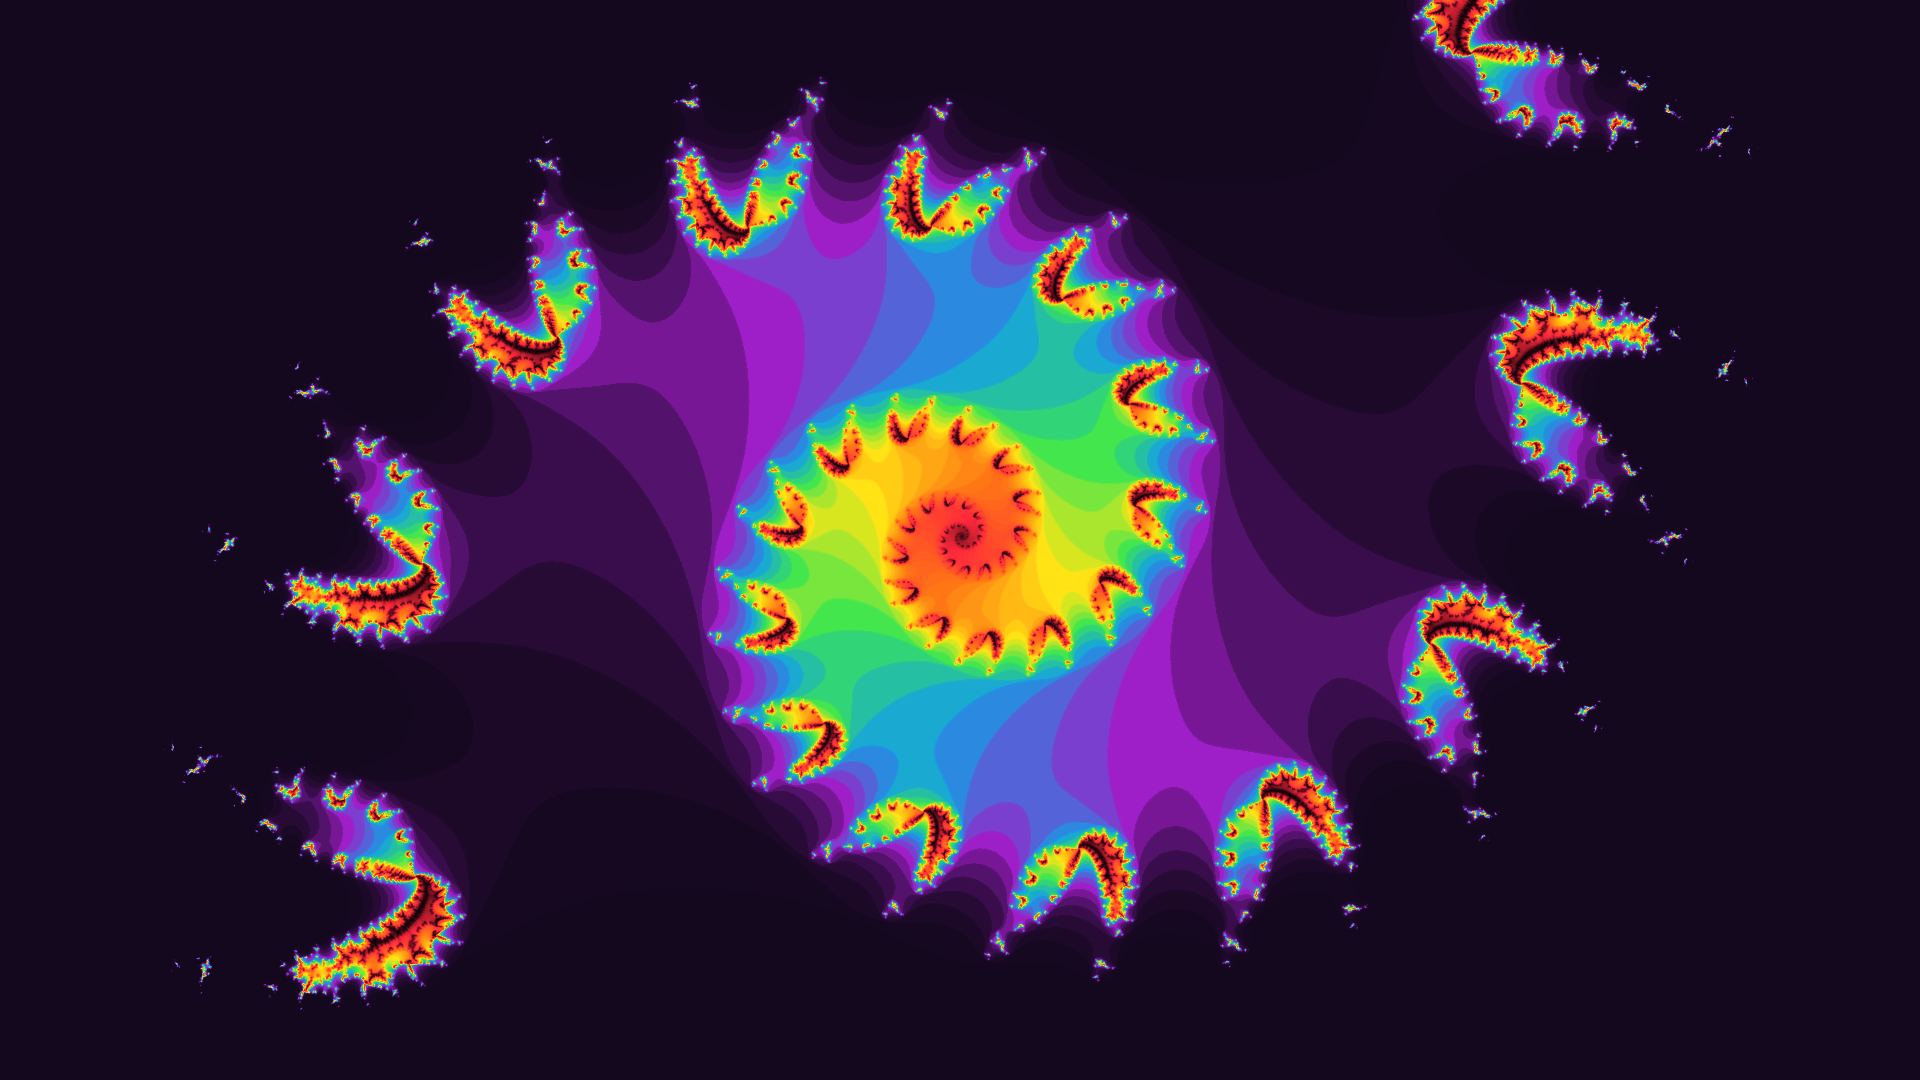
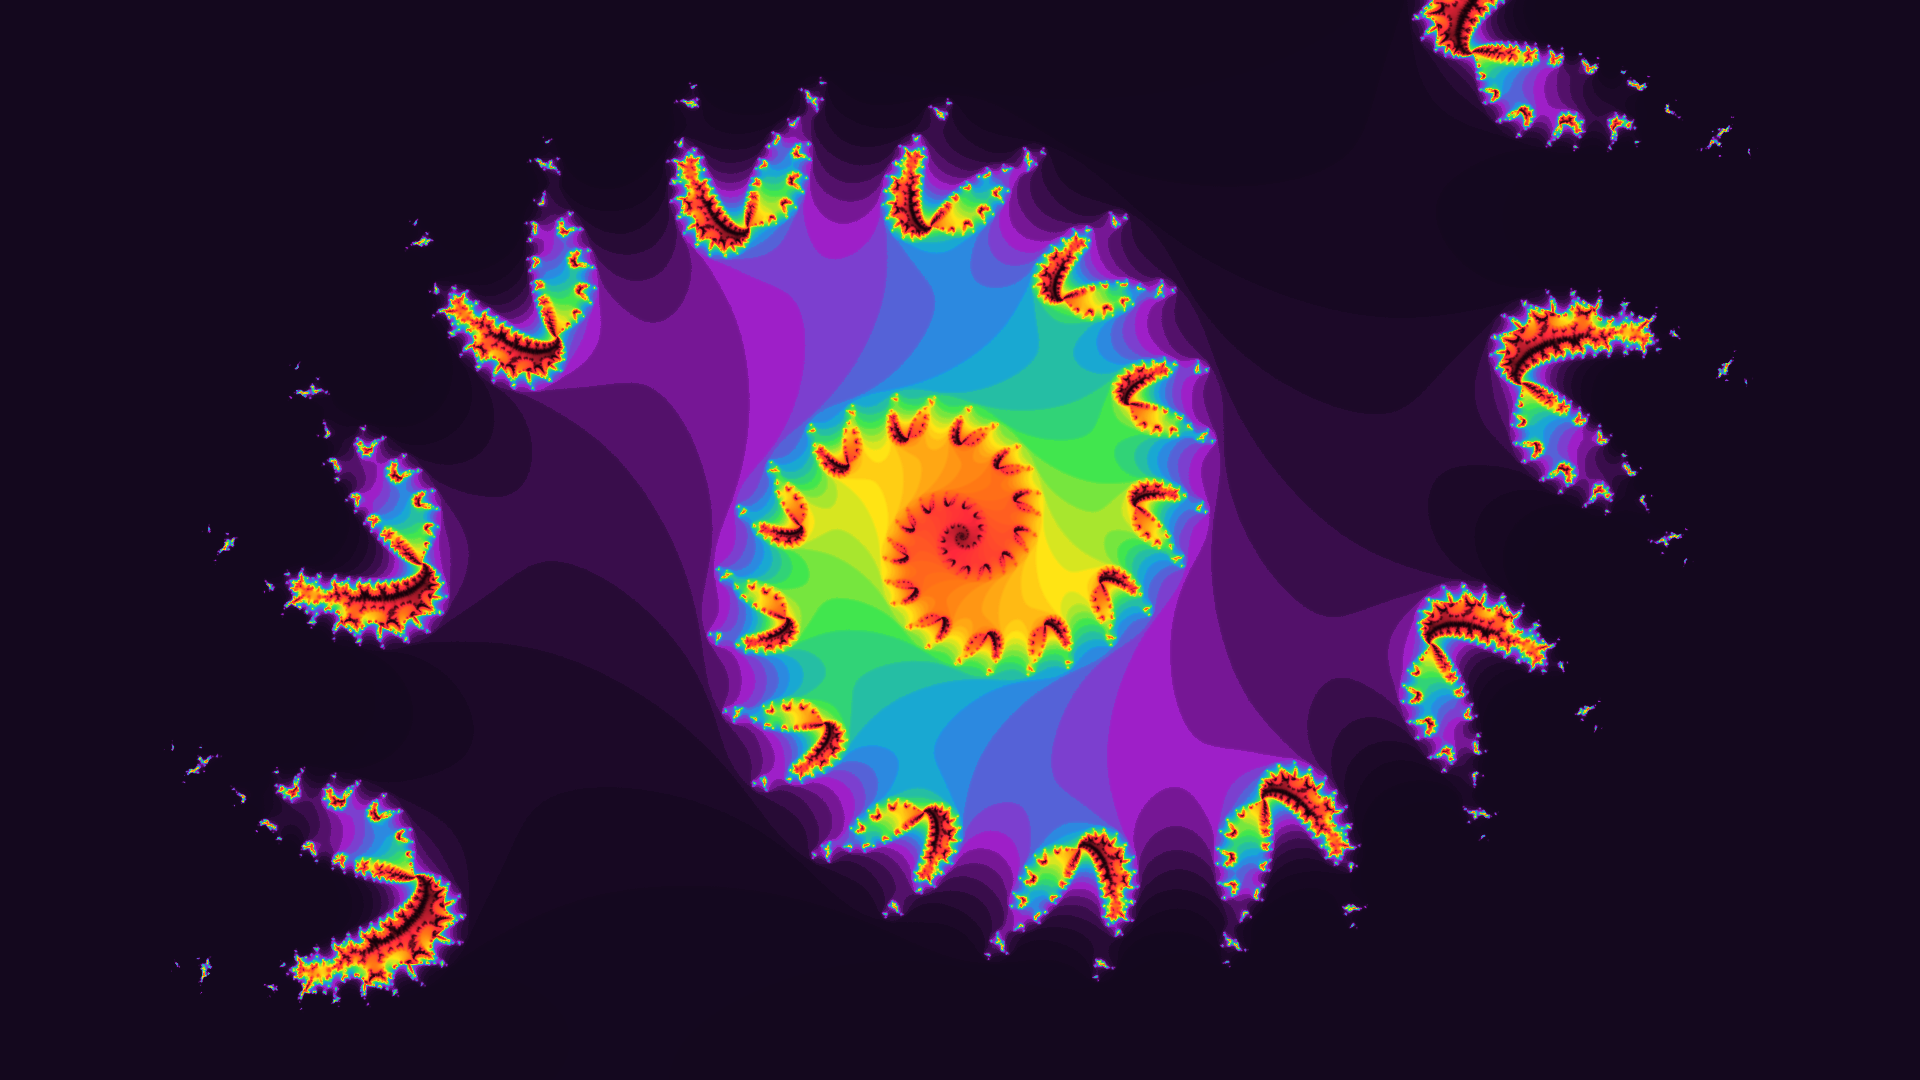
Improve antialiasing and re-render presets

diff --git a/src/sampling.rs b/src/sampling.rs
@@ -64,7 +64,7 @@ pub fn map_points_with_offsets(x: F, y: F, offset_x: F, offset_y: F) -> (F, F) {
 
     let (x, y) = ((x + offset_x) % 1., (y + offset_y) % 1.);
 
-    const R: F = 1.5;
+    const R: F = 1.8;
     let (x, y) = (R * tent(x), R * tent(y));
 
     (x, y)
